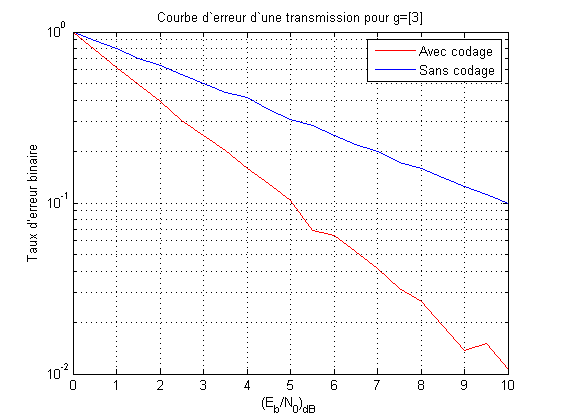
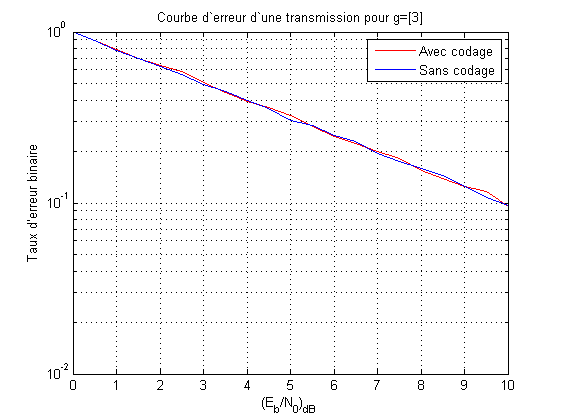
bonus

diff --git a/perf_soft.m b/perf_soft.m
@@ -15,7 +15,7 @@ for SNR=0:0.5:10
     err=[];
     for i=1:5000
         m_can=bsc(m_cod,sigma^2);
-        m_dec=decodconv(m_can,g,'h');
+        m_dec=decodconv(m_can,g,'s');
         err_tmp=0;
         for j=1:length(m_ini)
             if m_ini(1,j)~=m_dec(1,j)
@@ -65,7 +65,7 @@ for SNR=0:0.5:10
     err=[];
     for i=1:5000
         m_can=bsc(m_cod,sigma^2);
-        m_dec=decodconv(m_can,g,'h');
+        m_dec=decodconv(m_can,g,'s');
         err_tmp=0;
         for j=1:length(m_ini)
             if m_ini(1,j)~=m_dec(1,j)
@@ -116,7 +116,7 @@ for SNR=0:0.5:10
     err=[];
     for i=1:5000
         m_can=bsc(m_cod,sigma^2);
-        m_dec=decodconv(m_can,g,'h');
+        m_dec=decodconv(m_can,g,'s');
         err_tmp=0;
         for j=1:length(m_ini)
             if m_ini(1,j)~=m_dec(1,j)
